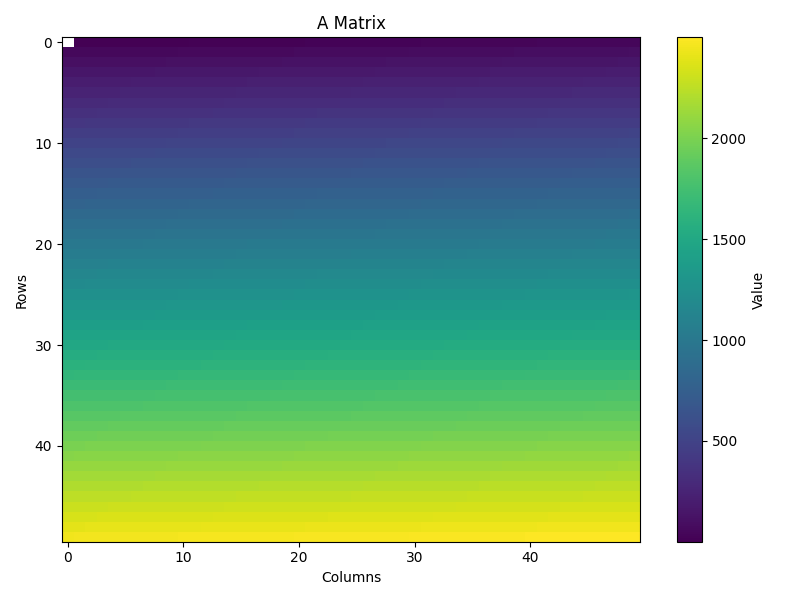
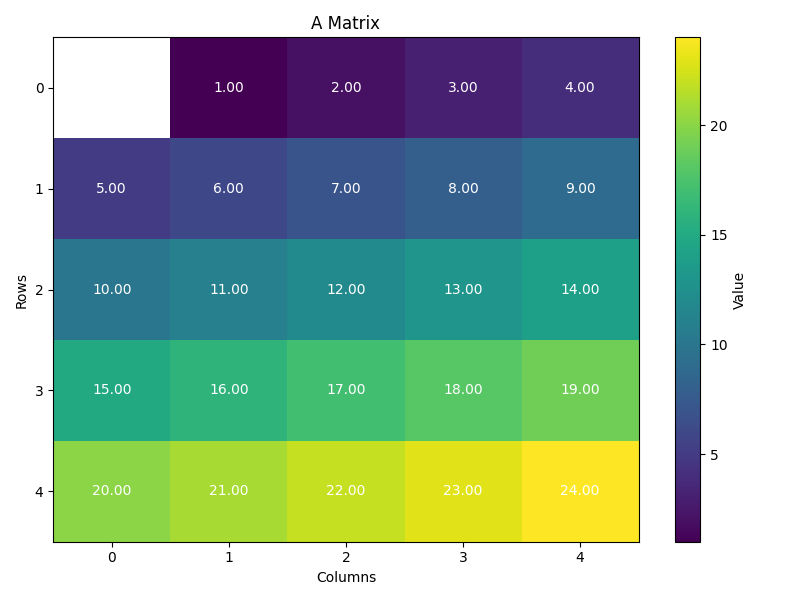
1. Implement weighted jacobi. 2. Capture residual at each layer.

diff --git a/benchmarks/amg_2d/run_amg.py b/benchmarks/amg_2d/run_amg.py
@@ -27,6 +27,7 @@ from dataclasses import dataclass
 import json
 from sklearn.datasets import make_sparse_spd_matrix
 import amg as amg 
+import copy
 
 @dataclass
 class CompileCoreArgs:
@@ -162,9 +163,11 @@ def host_calculations(v_cycle_data):
   x_level = v_cycle_data["x_level"]
   b_level = v_cycle_data["b_level"]
 
+  residual_host = []
   A, P, R, x, b = ml.levels[0].A, ml.levels[0].P, ml.levels[0].R, x_level[0], b_level[0]
-  b_coarse_host, x_coarse_host = amg.each_layer_solver(A, b, x, R, ml, setup_config, 0)
-  return b_coarse_host, x_coarse_host
+  b_coarse_host, x_coarse_host = amg.each_layer_solver(A, b, x, R, ml, setup_config, 0, residual_host)
+
+  return b_coarse_host, x_coarse_host, residual_host
 
 def device_calculations(v_cycle_data):
   run_args, logs_dir = parse_args()
@@ -181,6 +184,7 @@ def device_calculations(v_cycle_data):
   ############################################################
   # CREATE DYNAMIC LAYOUT
   ############################################################
+  residual_device_log = []
   A, P, R, x, b = ml.levels[0].A.toarray(), ml.levels[0].P.toarray(), ml.levels[0].R.toarray(), x_level[0], b_level[0]
   [M,N] = A.shape
   [R_M, R_N] = R.shape
@@ -201,7 +205,6 @@ def device_calculations(v_cycle_data):
   symbol_x = simulator.get_id("x")
   symbol_b = simulator.get_id("b")
   symbol_R = simulator.get_id("R")
-  symbol_x_smooth = simulator.get_id("x_smooth")
 
   simulator.load()
   simulator.run()
@@ -220,27 +223,33 @@ def device_calculations(v_cycle_data):
   ############################################################
   # Kernel
   ############################################################
-  simulator.launch('jacobi', nonblock=False)
-  simulator.launch('compute', nonblock=False)
+  omega=amg.get_omega_from_presmoother(setup_config)
+  iterations=amg.get_iterations_from_presmoother(setup_config)    
+  print(f"Solving Layer 0 with omega={omega}, smoothing_iterations={iterations}")
+  
+  simulator.launch('compute', np.float32(omega), np.int16(iterations), nonblock=False)
 
   ############################################################
   # D2H
   ############################################################
-  x_smooth_device = np.zeros([N*1], dtype=np.float32)
-  simulator.memcpy_d2h(x_smooth_device, symbol_x_smooth, 0, 0, 1, 1, N*1, streaming=False,
-    order=MemcpyOrder.ROW_MAJOR, data_type=memcpy_dtype, nonblock=False)
   residual_device = np.zeros([M*1], dtype=np.float32)
   simulator.memcpy_d2h(residual_device, symbol_residual, 0, 0, 1, 1, M*1, streaming=False,
     order=MemcpyOrder.ROW_MAJOR, data_type=memcpy_dtype, nonblock=False)
   b_coarse_device = np.zeros([R_M*1], dtype=np.float32)
   simulator.memcpy_d2h(b_coarse_device, symbol_b_coarse, 0, 0, 1, 1, R_M*1, streaming=False,
     order=MemcpyOrder.ROW_MAJOR, data_type=memcpy_dtype, nonblock=False)
+  x_coarse_device = np.zeros_like(b_coarse_device)
+  
+  ############################################################
+  # some additional logging
+  ############################################################
+  residual_device_log.append(residual_device)
   ############################################################
   # Cleanup
   ############################################################
   simulator.stop()
   logs(run_args, logs_dir)
-  return residual_device, b_coarse_device, x_smooth_device
+  return b_coarse_device, x_coarse_device, residual_device_log
 
 def generate_dynamic_layout(run_args, pe_cols_=1, pe_rows_=1, M_=4, N_=4, R_M_=2, R_N_=4):
     print("Precompile disabled, compiling based on problem size.")
@@ -320,19 +329,24 @@ def main():
     "b_level": b_level,
     "setup_config": setup_config
   }
+  v_cycle_data_host = copy.deepcopy(v_cycle_data)
+  v_cycle_data_device = copy.deepcopy(v_cycle_data) # This is expensive
   print("############################################################")
   print("# HOST CALCULATIONS")
   print("############################################################")
-  b_coarse_host, x_coarse_host = host_calculations(v_cycle_data)
+  b_coarse_host, x_coarse_host, residual_host = host_calculations(v_cycle_data_host)
   print("\tb_coarse Host:", b_coarse_host.ravel())
   print("\tx_coarse Host:", x_coarse_host.ravel())
+  for i, residual in enumerate(residual_host):
+      print(f"\tResidual Host [{i}]:", residual)
   print("############################################################")
   print("# DEVICE CALCULATIONS")
   print("############################################################")
-  residual_device, b_coarse_device, x_smooth_device = device_calculations(v_cycle_data)
-  print("Residual Device:", residual_device.ravel())
-  print("b_coarse Device:", b_coarse_device.ravel())
-  print("x_smooth Device:", x_smooth_device.ravel())
+  b_coarse_device, x_coarse_device, residual_device = device_calculations(v_cycle_data_device)
+  print("\tb_coarse Device:", b_coarse_device.ravel())
+  print("\tx_coarse Device:", x_coarse_device.ravel()) 
+  for i, residual in enumerate(residual_device):
+      print(f"\tResidual Device [{i}]:", residual)   
   print("############################################################")
   print("# COMPARISON")
   print("############################################################")

diff --git a/benchmarks/amg_2d/amg.py b/benchmarks/amg_2d/amg.py
@@ -30,17 +30,15 @@ import matplotlib.pyplot as plt
 import math
 import utilities as ut
 
-def each_layer_solver(A, b, x, R, ml, setup_config, level_id):
+def each_layer_solver(A, b, x, R, ml, setup_config, level_id, residual_host):
     print(f"Solving on host layer: {level_id}")
-    
-    print("\tBefore presmoother: ", x)
     # ml.levels[level_id].presmoother(A, x, b)
     ut.jacobi_dense(A, x, b, omega=get_omega_from_presmoother(setup_config), iterations=get_iterations_from_presmoother(setup_config))
-    print(f"\tAfter presmoother: {x}")
-    r = b - A @ x
-    print(f"\tResidual: {r}")
-    b_coarse = R @ r
+    r = b - A @ x   # residual
+    b_coarse = R @ r    # restrict
     x_coarse = np.zeros_like(b_coarse)
+    
+    residual_host.append(r)
     return b_coarse, x_coarse
 
 # solve a linear system A * x = b
